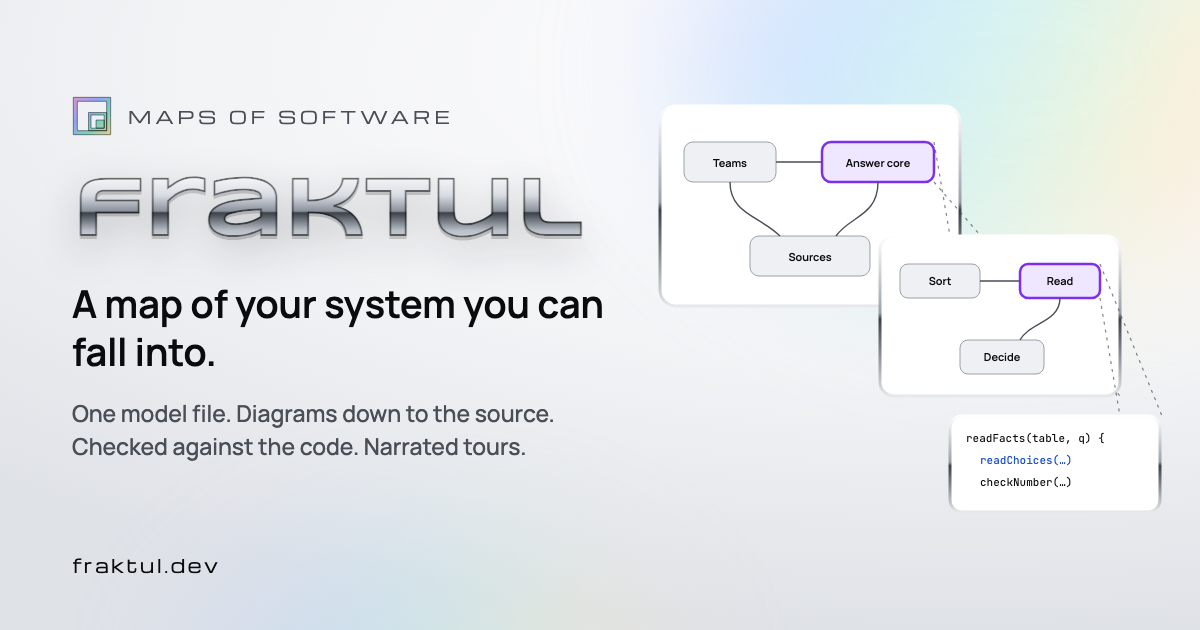
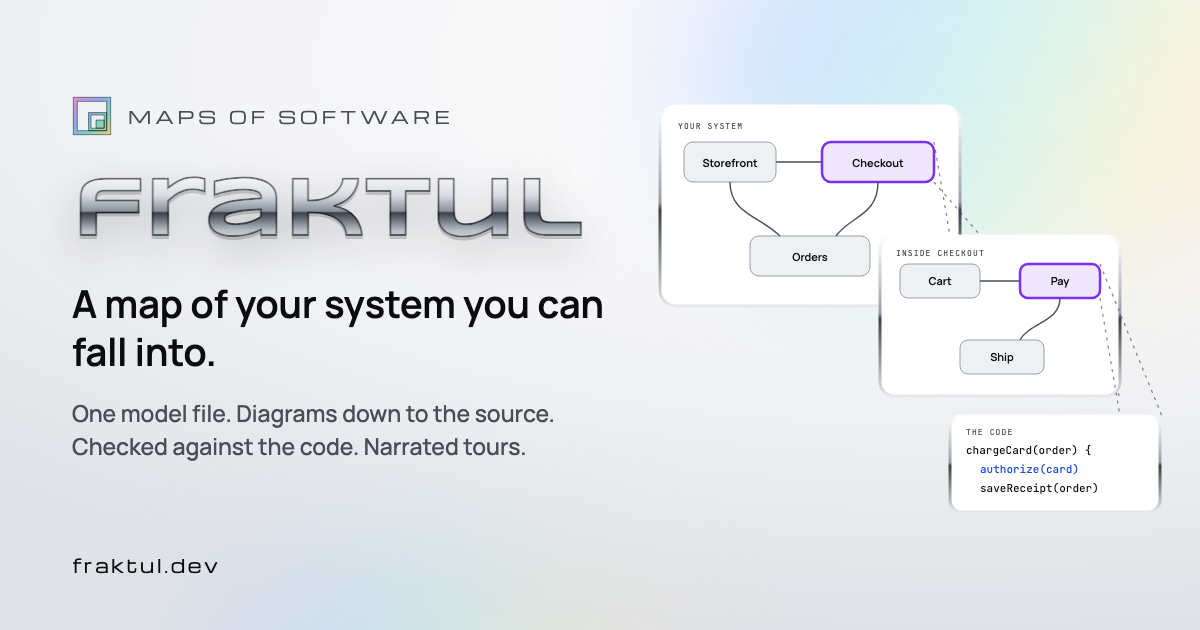
The home page's example is an online shop: Storefront, Checkout, Orders, down to the code that charges the card (#6)

diff --git a/src/components/home-hero/home-hero.html b/src/components/home-hero/home-hero.html
@@ -40,6 +40,8 @@ The fraktul.dev hero: chrome wordmark, foil star, and a diagram that zooms into 
   .ln { stroke: var(--ink-2); stroke-width: 1.4; fill: none; }
   .zoom { stroke: var(--ink-2); stroke-dasharray: 3 5; stroke-width: 1.2; fill: none; opacity: 0.7; }
   .lbl { font: 600 11px var(--body); fill: var(--ink); }
+  /* What each frame is: the system, the inside of one block, the code. */
+  .cap { font: 500 8px var(--mono); letter-spacing: 0.14em; fill: var(--ink-2); }
   @media (prefers-reduced-motion: no-preference) {
     .fl { animation: float 7s ease-in-out infinite; transform-origin: center; }
     .fl2 { animation-delay: -2.3s; }
@@ -63,7 +65,7 @@ The fraktul.dev hero: chrome wordmark, foil star, and a diagram that zooms into 
       </div>
     </div>
     <svg class="art" viewBox="0 0 520 440" role="img" aria-labelledby="art-t">
-      <title id="art-t">A system diagram where one box opens into a smaller diagram, which opens into source code</title>
+      <title id="art-t">An online shop as a diagram: Storefront, Checkout and Orders. Checkout opens into Cart, Pay and Ship, and Pay opens into the code that charges the card.</title>
       <defs>
         <linearGradient id="rim" x1="0" y1="0" x2="0" y2="1">
           <stop offset="0" stop-color="#ffffff" /><stop offset="0.48" stop-color="#9aa1aa" /><stop offset="0.52" stop-color="#3c4149" /><stop offset="1" stop-color="#e6e8eb" />
@@ -72,27 +74,30 @@ The fraktul.dev hero: chrome wordmark, foil star, and a diagram that zooms into 
       <g class="fl">
         <rect class="frame" x="10" y="20" width="300" height="200" rx="16" />
         <rect class="chrome-edge" x="10" y="20" width="300" height="200" rx="16" />
-        <rect class="box" x="34" y="56" width="92" height="40" rx="9" /><text class="lbl" x="80" y="81" text-anchor="middle">Teams</text>
-        <rect class="box hot" x="172" y="56" width="112" height="40" rx="9" /><text class="lbl" x="228" y="81" text-anchor="middle">Answer core</text>
-        <rect class="box" x="100" y="150" width="120" height="40" rx="9" /><text class="lbl" x="160" y="175" text-anchor="middle">Sources</text>
+        <text class="cap" x="28" y="43">YOUR SYSTEM</text>
+        <rect class="box" x="34" y="56" width="92" height="40" rx="9" /><text class="lbl" x="80" y="81" text-anchor="middle">Storefront</text>
+        <rect class="box hot" x="172" y="56" width="112" height="40" rx="9" /><text class="lbl" x="228" y="81" text-anchor="middle">Checkout</text>
+        <rect class="box" x="100" y="150" width="120" height="40" rx="9" /><text class="lbl" x="160" y="175" text-anchor="middle">Orders</text>
         <path class="ln" d="M126 76 H172 M228 96 C228 130 200 130 186 150 M80 96 C80 128 110 130 130 150" />
       </g>
       <path class="zoom" d="M284 56 L300 150 M284 96 L470 310" />
       <g class="fl fl2">
         <rect class="frame" x="230" y="150" width="240" height="160" rx="14" />
         <rect class="chrome-edge" x="230" y="150" width="240" height="160" rx="14" />
-        <rect class="box" x="250" y="178" width="80" height="34" rx="8" /><text class="lbl" x="290" y="199" text-anchor="middle">Sort</text>
-        <rect class="box hot" x="370" y="178" width="80" height="34" rx="8" /><text class="lbl" x="410" y="199" text-anchor="middle">Read</text>
-        <rect class="box" x="310" y="254" width="84" height="34" rx="8" /><text class="lbl" x="352" y="275" text-anchor="middle">Decide</text>
+        <text class="cap" x="246" y="170">INSIDE CHECKOUT</text>
+        <rect class="box" x="250" y="178" width="80" height="34" rx="8" /><text class="lbl" x="290" y="199" text-anchor="middle">Cart</text>
+        <rect class="box hot" x="370" y="178" width="80" height="34" rx="8" /><text class="lbl" x="410" y="199" text-anchor="middle">Pay</text>
+        <rect class="box" x="310" y="254" width="84" height="34" rx="8" /><text class="lbl" x="352" y="275" text-anchor="middle">Ship</text>
         <path class="ln" d="M330 195 H370 M410 212 C410 236 380 236 370 254" />
       </g>
       <path class="zoom" d="M450 212 L470 330 M450 178 L512 330" />
       <g class="fl fl3">
         <rect class="frame" x="300" y="330" width="210" height="96" rx="12" />
         <rect class="chrome-edge" x="300" y="330" width="210" height="96" rx="12" />
-        <text class="lbl" x="316" y="356" style="font-family: var(--mono); font-weight: 400">readFacts(table, q) {</text>
-        <text class="lbl" x="330" y="378" style="font-family: var(--mono); font-weight: 400; fill: var(--accent)">readChoices(…)</text>
-        <text class="lbl" x="330" y="400" style="font-family: var(--mono); font-weight: 400">checkNumber(…)</text>
+        <text class="cap" x="316" y="349">THE CODE</text>
+        <text class="lbl" x="316" y="368" style="font-family: var(--mono); font-weight: 400">chargeCard(order) {</text>
+        <text class="lbl" x="330" y="387" style="font-family: var(--mono); font-weight: 400; fill: var(--accent)">authorize(card)</text>
+        <text class="lbl" x="330" y="406" style="font-family: var(--mono); font-weight: 400">saveReceipt(order)</text>
       </g>
     </svg>
   </div>

diff --git a/scripts/site-images.ts b/scripts/site-images.ts
@@ -35,6 +35,7 @@ const og = `<!doctype html><html><head><meta charset="utf-8" />
   .ln { stroke: #4a4f57; stroke-width: 1.4; fill: none; }
   .zoom { stroke: #4a4f57; stroke-dasharray: 3 5; stroke-width: 1.2; fill: none; opacity: 0.7; }
   .lbl { font: 600 11px Manrope, sans-serif; fill: #0a0b0d; }
+  .cap { font: 500 8px "JetBrains Mono", monospace; letter-spacing: 0.14em; fill: #4a4f57; }
   .code { font: 400 11px "JetBrains Mono", monospace; fill: #0a0b0d; }
   .url { position: absolute; left: 72px; bottom: 56px; font: 400 18px/1 Michroma, sans-serif; letter-spacing: 0.14em; color: #0a0b0d; }
 </style></head><body>
@@ -48,21 +49,24 @@ const og = `<!doctype html><html><head><meta charset="utf-8" />
   <svg class="art" viewBox="0 0 520 440">
     <defs><linearGradient id="rim" x1="0" y1="0" x2="0" y2="1"><stop offset="0" stop-color="#ffffff" /><stop offset="0.48" stop-color="#9aa1aa" /><stop offset="0.52" stop-color="#3c4149" /><stop offset="1" stop-color="#e6e8eb" /></linearGradient></defs>
     <rect class="frame" x="10" y="20" width="300" height="200" rx="16" /><rect class="edge" x="10" y="20" width="300" height="200" rx="16" />
-    <rect class="box" x="34" y="56" width="92" height="40" rx="9" /><text class="lbl" x="80" y="81" text-anchor="middle">Teams</text>
-    <rect class="box hot" x="172" y="56" width="112" height="40" rx="9" /><text class="lbl" x="228" y="81" text-anchor="middle">Answer core</text>
-    <rect class="box" x="100" y="150" width="120" height="40" rx="9" /><text class="lbl" x="160" y="175" text-anchor="middle">Sources</text>
+    <text class="cap" x="28" y="43">YOUR SYSTEM</text>
+        <rect class="box" x="34" y="56" width="92" height="40" rx="9" /><text class="lbl" x="80" y="81" text-anchor="middle">Storefront</text>
+    <rect class="box hot" x="172" y="56" width="112" height="40" rx="9" /><text class="lbl" x="228" y="81" text-anchor="middle">Checkout</text>
+    <rect class="box" x="100" y="150" width="120" height="40" rx="9" /><text class="lbl" x="160" y="175" text-anchor="middle">Orders</text>
     <path class="ln" d="M126 76 H172 M228 96 C228 130 200 130 186 150 M80 96 C80 128 110 130 130 150" />
     <path class="zoom" d="M284 56 L300 150 M284 96 L470 310" />
     <rect class="frame" x="230" y="150" width="240" height="160" rx="14" /><rect class="edge" x="230" y="150" width="240" height="160" rx="14" />
-    <rect class="box" x="250" y="178" width="80" height="34" rx="8" /><text class="lbl" x="290" y="199" text-anchor="middle">Sort</text>
-    <rect class="box hot" x="370" y="178" width="80" height="34" rx="8" /><text class="lbl" x="410" y="199" text-anchor="middle">Read</text>
-    <rect class="box" x="310" y="254" width="84" height="34" rx="8" /><text class="lbl" x="352" y="275" text-anchor="middle">Decide</text>
+    <text class="cap" x="246" y="170">INSIDE CHECKOUT</text>
+        <rect class="box" x="250" y="178" width="80" height="34" rx="8" /><text class="lbl" x="290" y="199" text-anchor="middle">Cart</text>
+    <rect class="box hot" x="370" y="178" width="80" height="34" rx="8" /><text class="lbl" x="410" y="199" text-anchor="middle">Pay</text>
+    <rect class="box" x="310" y="254" width="84" height="34" rx="8" /><text class="lbl" x="352" y="275" text-anchor="middle">Ship</text>
     <path class="ln" d="M330 195 H370 M410 212 C410 236 380 236 370 254" />
     <path class="zoom" d="M450 212 L470 330 M450 178 L512 330" />
     <rect class="frame" x="300" y="330" width="210" height="96" rx="12" /><rect class="edge" x="300" y="330" width="210" height="96" rx="12" />
-    <text class="code" x="316" y="356">readFacts(table, q) {</text>
-    <text class="code" x="330" y="378" style="fill: #1d4fd8">readChoices(…)</text>
-    <text class="code" x="330" y="400">checkNumber(…)</text>
+    <text class="cap" x="316" y="349">THE CODE</text>
+        <text class="code" x="316" y="368">chargeCard(order) {</text>
+    <text class="code" x="330" y="387" style="fill: #1d4fd8">authorize(card)</text>
+    <text class="code" x="330" y="406">saveReceipt(order)</text>
   </svg>
   <div class="url">fraktul.dev</div>
 </body></html>`;

diff --git a/src/components/model-sample/model-sample.html b/src/components/model-sample/model-sample.html
@@ -12,23 +12,23 @@ What a model file looks like, and the three Mermaid conventions that chain diagr
   @media (max-width: 860px) { .sec { grid-template-columns: 1fr; } }
 </style>
 <div class="y2k-band right"><section class="sec" data-testid="model-sample">
-  <pre class="y2k-screen" aria-label="Example model file"><span class="k">answer_core</span>:
-  <span class="k">title</span>: <span class="s">Answer core</span>
-  <span class="k">status</span>: <span class="s">prototype</span>
+  <pre class="y2k-screen" aria-label="Example model file"><span class="k">checkout</span>:
+  <span class="k">title</span>: <span class="s">Checkout</span>
+  <span class="k">kind</span>: <span class="s">service</span>
+  <span class="k">summary</span>: <span class="s">Turns a cart into a paid order.</span>
   <span class="k">anchors</span>:
-    <span class="k">functions</span>: [<span class="s">"eval/run-canon.ts#sortQuestion"</span>]
-    <span class="k">adrs</span>: [<span class="s">"0012"</span>]
+    <span class="k">functions</span>: [<span class="s">"src/checkout/pay.ts#chargeCard"</span>]
   <span class="k">diagram</span>: |
-    flowchart TD
-      question([<span class="s">"Coder's question"</span>]) --&gt; sort
-      sort -- <span class="s">"a table"</span> --&gt; read_facts --&gt; <span class="h">table_engine</span>
-      sort -- <span class="s">"a rule"</span> --&gt; <span class="h">rule_lookup</span>
-      <span class="c">%% @link question adr:0012</span></pre>
+    flowchart LR
+      order([<span class="s">"A customer's order"</span>]) --&gt; cart
+      cart -- <span class="s">"the total"</span> --&gt; <span class="h">payments</span>
+      cart -- <span class="s">"the address"</span> --&gt; <span class="h">shipping</span>
+      <span class="c">%% @link cart src/checkout/cart.ts</span></pre>
   <div>
     <h2 class="head y2k-head">Plain Mermaid, chained by id</h2>
     <ul>
-      <li><strong>A box whose id is another block becomes a door.</strong> <code>table_engine</code> above opens the table engine's own diagram.</li>
-      <li><strong><code>block/inner</code> reaches inside.</strong> An edge to <code>answer_core/read_back</code> lands on that box when the block is drawn open.</li>
+      <li><strong>A box whose id is another block becomes a door.</strong> <code>payments</code> above opens the payments block's own diagram.</li>
+      <li><strong><code>block/inner</code> reaches inside.</strong> An arrow to <code>payments/refund</code> lands on that box when the block is drawn open.</li>
       <li><strong><code>%% @link</code> opens code.</strong> Point any box at a file, a function or a decision record.</li>
     </ul>
   </div>

diff --git a/src/lib/live.ts b/src/lib/live.ts
@@ -5,7 +5,7 @@
 //   // docs/arch/live.ts
 //   import type { LiveContext, LiveBlock } from "<fraktul>/src/lib/live.ts";   // types only, optional
 //   export default function (ctx: LiveContext): Record<string, LiveBlock> {
-//     return { run: { title: "Latest run", bar: [{ label: "right", value: 631, tone: "good" }], rows: [["Right", 631]] } };
+//     return { run: { title: "Latest run", bar: [{ label: "passed", value: 631, tone: "good" }], rows: [["Passed", 631]] } };
 //   }
 
 import { existsSync, readdirSync, readFileSync } from "node:fs";

diff --git a/README.md b/README.md
@@ -71,12 +71,12 @@ fresh traces, and `npx fraktul example shop` puts the map into anyone's checkout
 version: 1
 title: Shop system map                # page title
 brand: Shop system map                # top-left name
-root: city                            # the node the map opens on
+root: shop                            # the node the map opens on
 default_repo: main                    # anchors without a repo prefix
 adrs_dir: docs/adr                    # NNNN-title.md files with a "- Status:" line (optional)
 live_module: live.ts                  # facts read at build time (optional, see below)
-voice: { voice: bf_emma, speed: 1, say_as: { NCCI: "N C C I" } }
-expect: { tours: 3, depth: { answer_core: 3, "*": 2 } }    # requirements the check enforces (optional)
+voice: { voice: bf_emma, speed: 1, say_as: { SKU: "S K U" } }
+expect: { tours: 3, depth: { checkout: 3, "*": 2 } }       # requirements the check enforces (optional)
 
 repos:
   main: { path: "." }                                       # source links from the checkout's git origin
@@ -90,22 +90,22 @@ coverage:                             # files the check expects the model to men
     exclude: ["**/*.test.ts"]
 
 nodes:
-  calculator:                         # the id is also the Mermaid box id: lowercase, digits, _
-    title: Unit calculator
-    kind: component                   # district · component · module · data · person · service · repo · doc · step
-    status: prototype                 # built · prototype · planned · proposed · external
+  checkout:                           # the id is also the Mermaid box id: lowercase, digits, _
+    title: Checkout
+    kind: service                     # system · service · feature · component · module · data · person · repo · doc · step
+    status: built                     # built · prototype · planned · proposed · external
     summary: One paragraph in plain words.
-    live: [run]                       # live fact blocks to show
+    live: [orders]                    # live fact blocks to show
     anchors:
-      files: [eval/calc.ts]
-      functions: ["eval/calc.ts#fractionBlocks"]
-      data: [tables/planning.json]
-      docs: [eval/README.md]
+      files: [src/checkout/index.ts]
+      functions: ["src/checkout/pay.ts#chargeCard"]
+      data: [config/shipping-rates.json]
+      docs: [src/checkout/README.md]
       adrs: ["0009"]
       repo: main                      # default repo for these paths; `other:path` names another
     diagram: |                        # plain Mermaid flowchart
       flowchart LR
-        read["Read facts"]:::model --> blocks["Blocks of 5"]
+        cart["Read the cart"] --> pay["Charge the card"] --> payments
 ```
 
 ### How diagrams chain
@@ -164,28 +164,28 @@ fraktul and loads the first time 3D is switched on. The design is in `docs/3d-vi
 
 ```yaml
 tours:
-  - id: one-question
-    title: Follow one coder's question
+  - id: one-order
+    title: Follow one order
     summary: One line for the tour list.
     voice: { voice: am_michael }      # optional, per tour
     steps:
-      - id: q-sort                    # optional; needed when something jumps here
-        view: sort                    # whose diagram is shown
-        expand: [sort_guards]         # optional
-        focus: [reader_1, reader_2]   # highlighted boxes
-        title: Two models sort it
+      - id: o-pay                     # optional; needed when something jumps here
+        view: checkout                # whose diagram is shown
+        expand: [payments]            # optional
+        focus: [cart, pay]            # highlighted boxes
+        title: Checkout takes the money
         text: Short text on the tour card.
         say: >-                       # narration: say more than the card shows
-          Sorting means one decision. [[reader_1, reader_2]] Two models sort it on their own.
-          [[sort_guards]] Code guards check the known traps.
-        next: q-read                  # default: the next step
-        branches: [{ label: "Units over a course", to: q-calc }]   # step id or tour:<id>
+          Paying is two steps. [[cart]] Checkout reads the cart to get the total,
+          [[pay]] then asks payments to charge the card.
+        next: o-ship                  # default: the next step
+        branches: [{ label: "The card is declined", to: o-declined }]   # step id or tour:<id>
 ```
 
 - `[[box, other]]` in `say:` moves the highlight at that point of the narration. The check validates every cue.
 - `fraktul voice` speaks each step with Kokoro (82M) on Apple silicon through mlx-audio, one sentence at a time, so
   captions and cues are timed exactly. Audio goes to `<model dir>/.fraktul/voice/` (keep it out of git: it is rebuilt
-  from the text). Codes like 77427 are read digit by digit; `say_as` fixes other words. Voices: `af_heart`,
+  from the text). Numbers like 77427 are read digit by digit; `say_as` fixes other words. Voices: `af_heart`,
   `am_michael`, `bf_emma`, `am_fenrir` and the rest of Kokoro's list.
 - In the map, **Listen** plays a tour: captions follow, the highlight moves with the cues, and the tour moves on by
   itself (pausing at branches).
@@ -200,7 +200,7 @@ tours:
 
 ```ts
 export default function (ctx) {          // ctx: { project, modelDir, repoRoot(repo), adrs }
-  return { run: { title: "Latest run", bar: [{ label: "right", value: 631, tone: "good" }], rows: [["Right", 631]], source: "results/v8.json" } };
+  return { run: { title: "Latest run", bar: [{ label: "passed", value: 631, tone: "good" }], rows: [["Passed", 631]], source: "results/v8.json" } };
 }
 ```
 

diff --git a/content/docs/08-tours.md b/content/docs/08-tours.md
@@ -107,7 +107,7 @@ Options: `--tour <id>` renders one tour, `--voice <name>` overrides the voice, `
 ## Voice settings
 
 ```yaml
-voice: { voice: bf_emma, speed: 1, say_as: { NCCI: "N C C I", SQL: "sequel" } }
+voice: { voice: bf_emma, speed: 1, say_as: { SKU: "S K U", SQL: "sequel" } }
 
 tours:
   - id: one-order
@@ -127,7 +127,7 @@ tours:
 - `say_as`: words the voice gets wrong, and how to say them. Set it on the model's `voice:`.
 - A tour's own `voice:` overrides the model's for that tour.
 
-Codes like `77427` or `G2212` are read digit by digit. Four-digit years starting with 19 or 20 stay years.
+Codes like `77427` or `G2212` (an order number, a part number) are read digit by digit. Four-digit years starting with 19 or 20 stay years.
 
 ## Listening
 

diff --git a/content/docs/18-faq.md b/content/docs/18-faq.md
@@ -74,7 +74,7 @@ on an internal network or offline.
 Add it to `say_as` under the model's `voice:`, spelled the way it should sound:
 
 ```yaml
-voice: { voice: af_heart, say_as: { NCCI: "N C C I", kubectl: "cube control" } }
+voice: { voice: af_heart, say_as: { SKU: "S K U", kubectl: "cube control" } }
 ```
 
 ## The record button is missing
